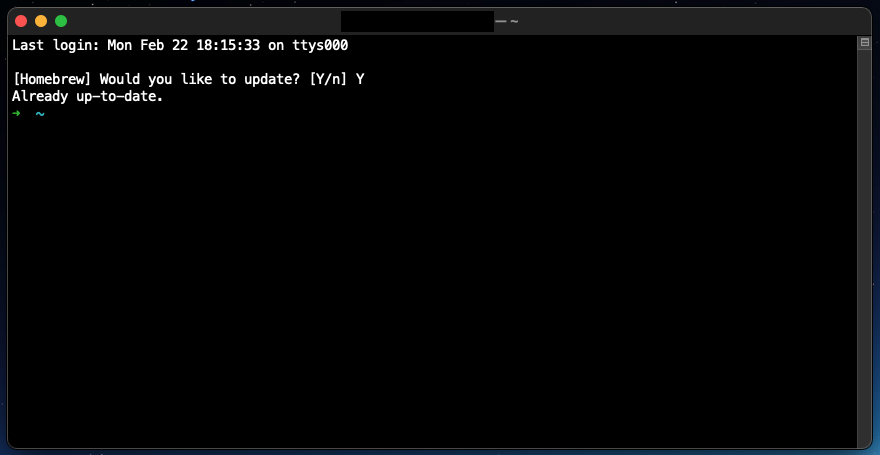
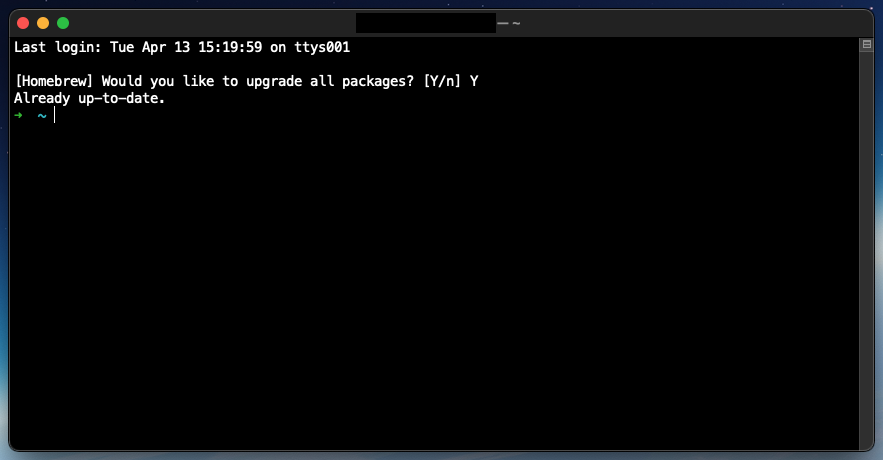
Improved wording in README and messages to stdout

Changed region(s): [[0.0, 0.0, 1.0, 1.0]]

diff --git a/README.md b/README.md
@@ -1,6 +1,6 @@
-# Homebrew Auto-Update Tool
+# Homebrew Package Auto-Upgrade Tool
 
-![Homebrew Auto-Update Tool Demo](demo/demo_input.png)
+![Homebrew Package Auto-Upgrade Tool Demo](demo/demo_input.png)
 
 ### Setup
 
@@ -12,7 +12,7 @@
 
 ```shell
 # ---------
-# Homebrew Auto-Update Config
+# Homebrew Package Auto-Upgrade Config
 # ---------
 
 # Change how often to auto-update Homebrew (in days)
@@ -25,12 +25,15 @@ export UPDATE_HOMEBREW_PATH=<path>
 source $UPDATE_HOMEBREW_PATH/homebrew-updater.sh
 ```
 
-This Homebrew auto-update tool also stores a `.brew-last-update` file in your user's home directory, which contains a record of when the user was last prompted to run the Homebrew auto-update tool.
+This Homebrew package auto-upgrade tool also stores a `.brew-last-update` file in your user's home directory, which
+contains a record of when the user was last prompted to run the Homebrew auto-update tool.
 
 #### (Optional)
 
-2) You can edit the `homebrew_updater()` function, at line 14 in `homebrew-updater.sh`, to define your own Homebrew auto-update steps.
+2) You can edit the `homebrew_updater()` function, at line 14 in `homebrew-updater.sh`, to define your own Homebrew
+   package auto-upgrade steps.
 
 ### Debug Logger
 
-Each time your `~/.bashrc`, `~/.zshrc`, etc. file(s) are loaded, simple info and warning logs are sent to `debug.log`, in this Git project repo. 
+Each time your `~/.bashrc`, `~/.zshrc`, etc. file(s) are loaded, simple info and warning logs are sent to `debug.log`,
+in this Git project repo. 
